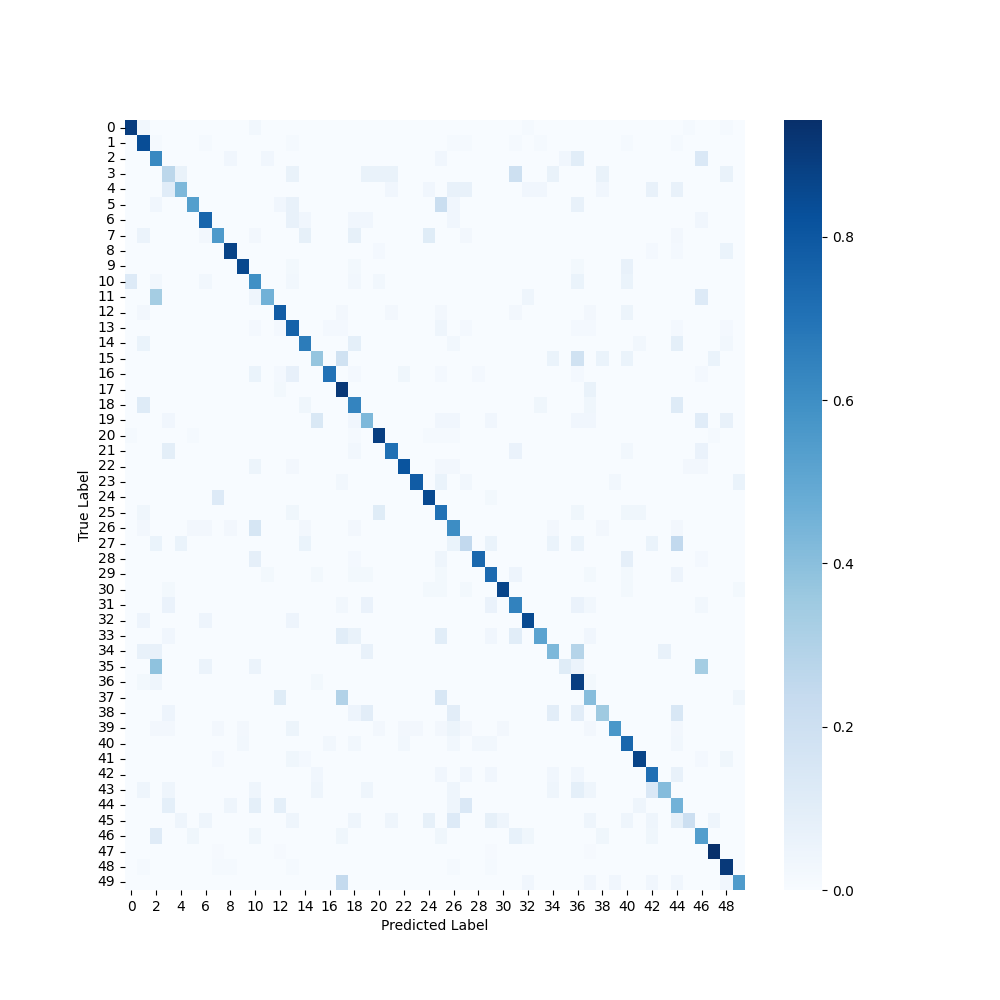
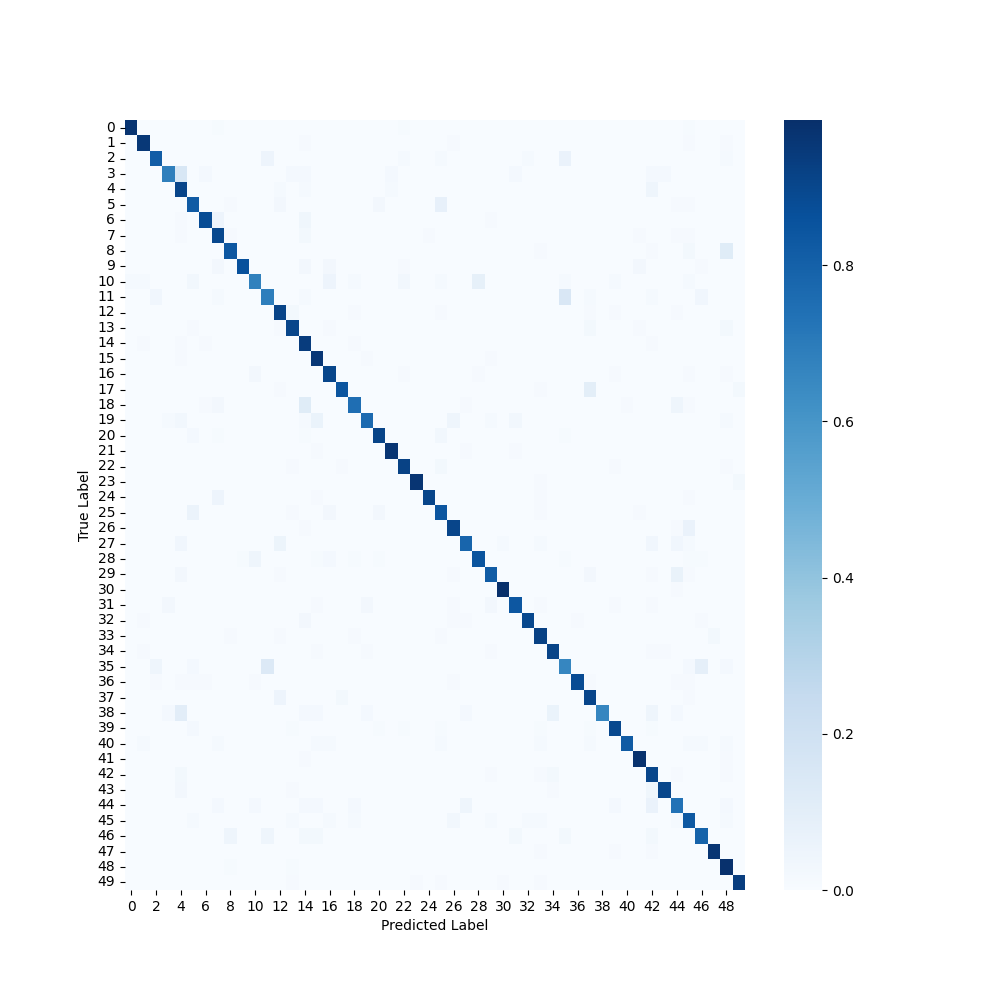
Improve cifar cnn model

diff --git a/cifar.py b/cifar.py
@@ -91,21 +91,34 @@ test_x = test_x / 255.0
 
 print("\nTraining/Loading model")
 model_path = './saved_models/cifar_cnn.h5'
-train = True
+train = False
 
 model = keras.Sequential()
-model.add(keras.layers.Conv2D(32, 3, padding='same', activation='relu', input_shape=train_x[0].shape))
-model.add(keras.layers.BatchNormalization())
-model.add(keras.layers.Conv2D(64, 3, padding='same', activation='relu'))
+model.add(keras.layers.Conv2D(128, 3, padding='same', activation='relu', input_shape=train_x[0].shape))
 model.add(keras.layers.BatchNormalization())
 model.add(keras.layers.Conv2D(128, 3, padding='same', activation='relu'))
 model.add(keras.layers.BatchNormalization())
 model.add(keras.layers.MaxPooling2D(pool_size=(2, 2)))
+model.add(keras.layers.Dropout(0.3))
+model.add(keras.layers.Conv2D(256, 3, padding='same', activation='relu'))
+model.add(keras.layers.BatchNormalization())
+model.add(keras.layers.Conv2D(256, 3, padding='same', activation='relu'))
+model.add(keras.layers.BatchNormalization())
+model.add(keras.layers.Conv2D(256, 3, padding='same', activation='relu'))
+model.add(keras.layers.BatchNormalization())
+model.add(keras.layers.MaxPooling2D(pool_size=(2, 2)))
+model.add(keras.layers.Dropout(0.3))
+model.add(keras.layers.Conv2D(512, 3, padding='same', activation='relu'))
+model.add(keras.layers.BatchNormalization())
+model.add(keras.layers.Conv2D(512, 3, padding='same', activation='relu'))
+model.add(keras.layers.BatchNormalization())
+model.add(keras.layers.MaxPooling2D(pool_size=(2, 2)))
+model.add(keras.layers.Dropout(0.3))
 model.add(keras.layers.Flatten())
-model.add(keras.layers.Dense(128, activation=tf.nn.relu))
+model.add(keras.layers.Dense(512, activation=tf.nn.relu))
 model.add(keras.layers.BatchNormalization())
 model.add(keras.layers.Dropout(0.3))
-model.add(keras.layers.Dense(128, activation=tf.nn.relu))
+model.add(keras.layers.Dense(512, activation=tf.nn.relu))
 model.add(keras.layers.BatchNormalization())
 model.add(keras.layers.Dropout(0.3))
 model.add(keras.layers.Dense(50, activation=tf.nn.softmax))
@@ -119,33 +132,22 @@ if train:
     augmeter = ImageDataGenerator(rotation_range=20, shear_range=0.2, zoom_range=0.2, horizontal_flip=True)
     augmeter.fit(train_x)
     # Fit and save (uses real-time augmeter which is generating batches of size 128 of augmented data)
-    model.fit(augmeter.flow(train_x, train_y, batch_size=128), validation_data=(val_x, val_y), batch_size=128, epochs=50)
+    model.fit(augmeter.flow(train_x, train_y, batch_size=128), validation_data=(val_x, val_y), batch_size=128, epochs=100)
     model.save(model_path)
 else:
-    model = keras.models.load_model(model_path)
+    model = keras.models.load_model(model_path, compile=False)
+    model.compile(optimizer='adam', loss='sparse_categorical_crossentropy', metrics=['accuracy'])
 
 
 
-exit()
+
+
+
+
+
 
 
 print("\nTesting model")
 threshold_to_test = np.linspace(0, 1, 200)
-# perform_analysis(model, test_x, test_y, threshold_to_test, 'cifar', 0.9, False)
+perform_analysis(model, test_x, test_y, threshold_to_test, 'cifar', 0.95, False)
 
-
-
-
-
-
-correct,total = 0,0
-predictions = model.predict(test_x)
-for i in range(len(test_y)):
-    a = np.argmax(predictions[i])
-    b = test_y[i]
-
-    if b >= 0:
-        total += 1
-        if a == b:
-            correct += 1
-print(correct/total)
